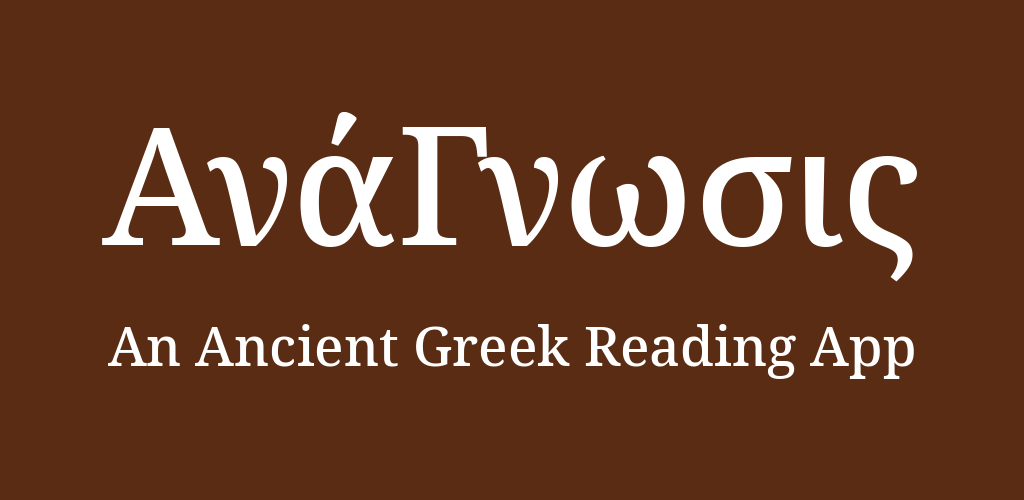
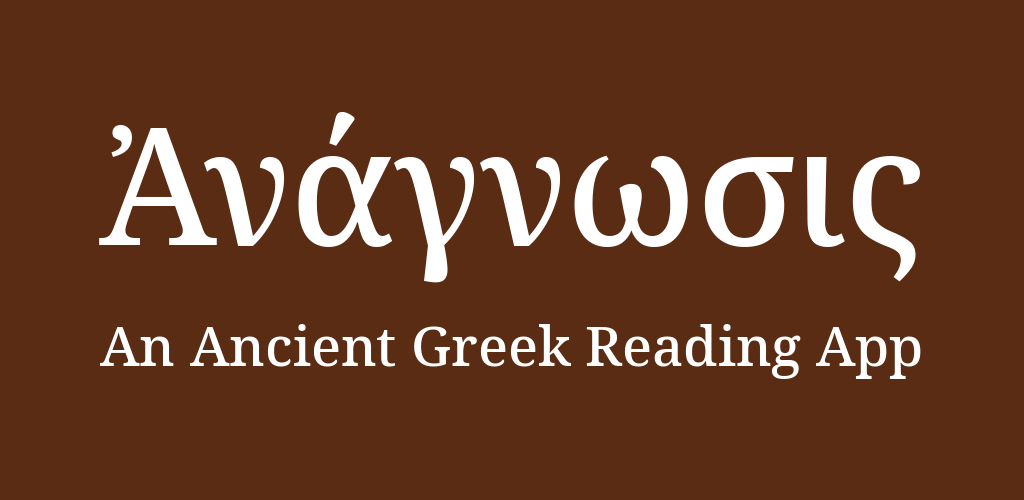
Reader's feature graphic: Ἀνάγνωσις with a lower-case gamma

diff --git a/play/make-feature-graphics.py b/play/make-feature-graphics.py
@@ -1,6 +1,6 @@
 """Draw the 1024x500 Google Play feature graphics: the reader's banner and one per text app.
 
-White Noto Serif Medium on the app's colour, as in the reader's ΑνάΓνωσις banner. A text's
+White Noto Serif Medium on the app's colour, as in the reader's Ἀνάγνωσις banner. A text's
 banner has its Greek title, "by <author>" (the New Testament: "New Testament") and a smaller
 "for Anagnosis" line. Run from the repository root: python3 play/make-feature-graphics.py
 Needs Pillow and Noto Serif (on Arch: noto-fonts).
@@ -66,9 +66,9 @@ def launcher_colour(module: str) -> str:
 def main() -> None:
     # the reader: the title as in the original banner, the subtitle fitted to its width
     title = ImageFont.truetype(FONT, 164)
-    tw = title.getbbox("ΑνάΓνωσις")[2] - title.getbbox("ΑνάΓνωσις")[0]
+    tw = title.getbbox("Ἀνάγνωσις")[2] - title.getbbox("Ἀνάγνωσις")[0]
     draw_lines(READER_COLOUR, [
-        ("ΑνάΓνωσις", title, 255, 0),
+        ("Ἀνάγνωσις", title, 255, 0),
         ("An Ancient Greek Reading App", font_fitting("An Ancient Greek Reading App", 77, tw), 255, 40),
     ]).save(PLAY / "feature-graphic.png")
     for slug, (greek, second, module) in TEXTS.items():
